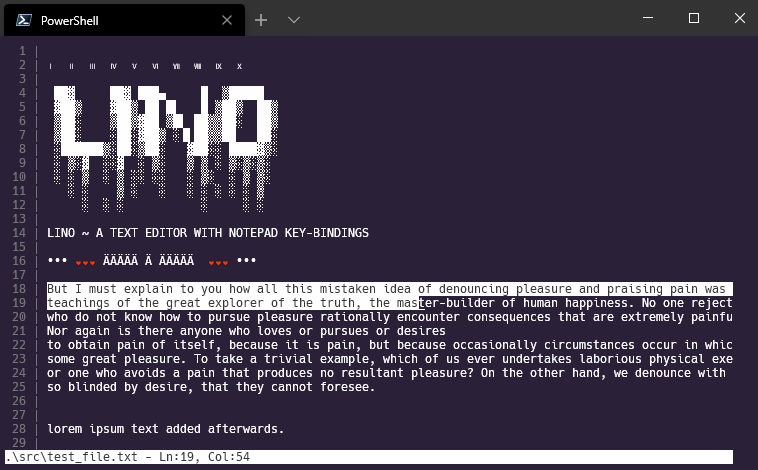
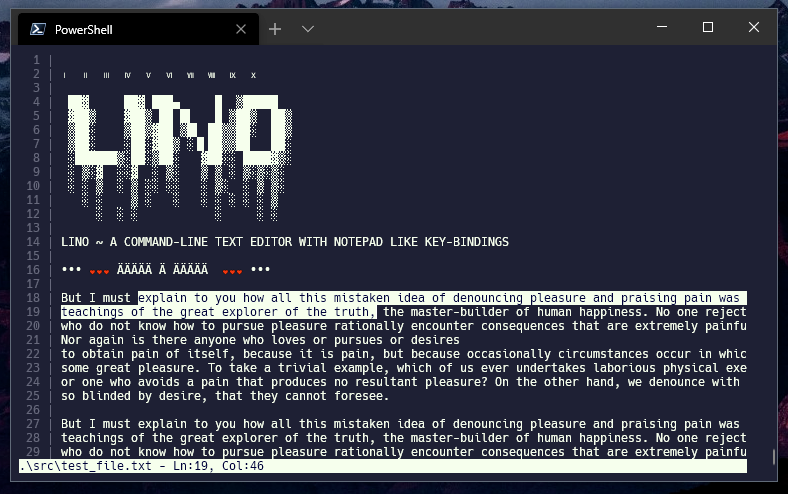
render code refactor, screenshot update

diff --git a/src/lino/render.rs b/src/lino/render.rs
@@ -50,20 +50,25 @@ impl Lino {
         
         for i in visible_frame_starting_line_num..visible_frame_ending_line_num {
             let rendered_lines_row = (i - visible_frame_starting_line_num) as usize;
-            let mut rendered_lines_col = 
+            let rendered_lines_col = 
                 (self.term_width - self.text_frame.width - self.line_nums_frame.width) as usize;
 
             let num_string = format!(" {:width$}", i + 1, width = line_num_width);
             let num_string = String::from(num_string) + &self.line_nums_frame.boundary_r;
 
-            for line_num_char in num_string.chars() {
-                crossterm::queue!(
-                    stdout(),
-                    crossterm::cursor::MoveTo(rendered_lines_col as u16, rendered_lines_row as u16),
-                    crossterm::style::Print(line_num_char),
-                )?;
-                rendered_lines_col += 1;
-            }
+            // for line_num_char in num_string.chars() {
+            //     crossterm::queue!(
+            //         stdout(),
+            //         crossterm::cursor::MoveTo(rendered_lines_col as u16, rendered_lines_row as u16),
+            //         crossterm::style::Print(line_num_char),
+            //     )?;
+            //     rendered_lines_col += 1;
+            // }
+            crossterm::queue!(
+                stdout(),
+                crossterm::cursor::MoveTo(rendered_lines_col as u16, rendered_lines_row as u16),
+                crossterm::style::Print(num_string),
+            )?;
         }
 
         let remaining_lines_start_row = (visible_frame_ending_line_num - visible_frame_starting_line_num) as usize;
@@ -72,13 +77,22 @@ impl Lino {
         let line_nums_frame_end_col = (line_nums_frame_start_col + self.line_nums_frame.width) as usize;
 
         for i in remaining_lines_start_row..self.line_nums_frame.height {
-            for j in line_nums_frame_start_col..line_nums_frame_end_col {
-                crossterm::queue!(
-                    stdout(),
-                    crossterm::cursor::MoveTo(j as u16, i as u16),
-                    crossterm::style::Print(' '),
-                )?;
+            // for j in line_nums_frame_start_col..line_nums_frame_end_col {
+            //     crossterm::queue!(
+            //         stdout(),
+            //         crossterm::cursor::MoveTo(j as u16, i as u16),
+            //         crossterm::style::Print(' '),
+            //     )?;
+            // }
+            let mut empty_string = String::new();
+            for _ in line_nums_frame_start_col..line_nums_frame_end_col {
+                empty_string.push(' ');
             }
+            crossterm::queue!(
+                stdout(),
+                crossterm::cursor::MoveTo(line_nums_frame_start_col as u16, i as u16),
+                crossterm::style::Print(empty_string),
+            )?;
         }
 
         Ok(())
@@ -117,7 +131,15 @@ impl Lino {
             let mut rendered_lines_col = (self.term_width - self.text_frame.width) as usize;
          
             let mut prev_background = crossterm::style::Color::Black;
-            let mut prev_foreground = crossterm::style::Color::DarkGrey;
+            let mut prev_foreground = crossterm::style::Color::White;
+            
+            crossterm::queue!(
+                stdout(),
+                crossterm::style::SetBackgroundColor(prev_background),
+                crossterm::style::SetForegroundColor(prev_foreground),
+            )?;
+
+            let mut same_styled_text = String::new();
 
             for j in visible_frame_starting_col..visible_frame_ending_col {
                 let mut background = self.lines[i][j].background;
@@ -131,6 +153,17 @@ impl Lino {
                         }
                     },
                     _ => ()
+                }
+
+                if (prev_background != background || prev_foreground != foreground)
+                && same_styled_text.len() > 0 {
+                    crossterm::queue!(
+                        stdout(),
+                        crossterm::cursor::MoveTo(rendered_lines_col as u16, rendered_lines_row as u16),
+                        crossterm::style::Print(same_styled_text.clone()),
+                    )?;
+                    rendered_lines_col += same_styled_text.chars().count();
+                    same_styled_text = String::new();
                 }
 
                 if prev_background != background {
@@ -149,12 +182,23 @@ impl Lino {
                     prev_foreground = foreground;
                 }
 
+                
+
+                // crossterm::queue!(
+                //     stdout(),
+                //     crossterm::cursor::MoveTo(rendered_lines_col as u16, rendered_lines_row as u16),
+                //     crossterm::style::Print(self.lines[i][j].character),
+                // )?;
+                same_styled_text.push(self.lines[i][j].character);
+                // rendered_lines_col += 1;
+            }
+
+            if same_styled_text.len() > 0 {
                 crossterm::queue!(
                     stdout(),
                     crossterm::cursor::MoveTo(rendered_lines_col as u16, rendered_lines_row as u16),
-                    crossterm::style::Print(self.lines[i][j].character),
+                    crossterm::style::Print(same_styled_text.clone()),
                 )?;
-                rendered_lines_col += 1;
             }
             
             let text_frame_start_col = (self.term_width - self.text_frame.width) as usize;
@@ -162,18 +206,22 @@ impl Lino {
                 + (visible_frame_ending_col - visible_frame_starting_col) as usize;
             let text_frame_end_col = (text_frame_start_col + self.text_frame.width) as usize;
 
+            // crossterm::queue!(
+            //     stdout(),
+            //     crossterm::style::SetBackgroundColor(crossterm::style::Color::Black),
+            //     crossterm::style::SetForegroundColor(crossterm::style::Color::DarkGrey),
+            // )?;
+            let mut empty_string = String::new();
+            for _ in remaining_chars_start_col..text_frame_end_col {
+                empty_string.push(' ');
+            }
             crossterm::queue!(
                 stdout(),
                 crossterm::style::SetBackgroundColor(crossterm::style::Color::Black),
-                crossterm::style::SetForegroundColor(crossterm::style::Color::DarkGrey),
+                crossterm::style::SetForegroundColor(crossterm::style::Color::White),
+                crossterm::cursor::MoveTo(remaining_chars_start_col as u16, rendered_lines_row as u16),
+                crossterm::style::Print(empty_string),
             )?;
-            for j in remaining_chars_start_col..text_frame_end_col {
-                crossterm::queue!(
-                    stdout(),
-                    crossterm::cursor::MoveTo(j as u16, rendered_lines_row as u16),
-                    crossterm::style::Print(' '),
-                )?;
-            }
         }
 
         let remaining_lines_start_row = (visible_frame_ending_row - visible_frame_starting_row) as usize;
@@ -187,32 +235,39 @@ impl Lino {
         )?;
 
         for i in remaining_lines_start_row..self.text_frame.height {
-            for j in text_frame_start_col..text_frame_end_col {
-                crossterm::queue!(
-                    stdout(),
-                    crossterm::cursor::MoveTo(j as u16, i as u16),
-                    crossterm::style::Print(' '),
-                )?;
+            // for j in text_frame_start_col..text_frame_end_col {
+            //     crossterm::queue!(
+            //         stdout(),
+            //         crossterm::cursor::MoveTo(j as u16, i as u16),
+            //         crossterm::style::Print(' '),
+            //     )?;
+            // }
+            let mut empty_string = String::new();
+            for _ in text_frame_start_col..text_frame_end_col {
+                empty_string.push(' ');
             }
+            crossterm::queue!(
+                stdout(),
+                crossterm::cursor::MoveTo(text_frame_start_col as u16, i as u16),
+                crossterm::style::Print(empty_string),
+            )?;
         }
 
         Ok(())
     }
 
     pub(crate) fn render_status_frame_content(&mut self) -> crossterm::Result<()> {
+        let mut empty_string = String::new();
+        for _ in 0..self.status_frame.width {
+            empty_string.push(' ');
+        }
         crossterm::queue!(
             stdout(),
             crossterm::style::SetBackgroundColor(crossterm::style::Color::White),
             crossterm::style::SetForegroundColor(crossterm::style::Color::Black),
+            crossterm::cursor::MoveTo(0, (self.term_height - 1) as u16),
+            crossterm::style::Print(empty_string),
         )?;
-        
-        for i in 0..self.status_frame.width {
-            crossterm::queue!(
-                stdout(),
-                crossterm::cursor::MoveTo(i as u16, (self.term_height - 1) as u16),
-                crossterm::style::Print(' '),
-            )?;
-        }
 
         let file_name = 
             if self.file.path != "" { String::from(&self.file.path) }
@@ -234,6 +289,8 @@ impl Lino {
     pub(crate) fn render_unsaved_changes_frame(&mut self) -> crossterm::Result<()> {
         crossterm::queue!(
             stdout(),
+            crossterm::style::SetBackgroundColor(crossterm::style::Color::Black),
+            crossterm::style::SetForegroundColor(crossterm::style::Color::White),
             crossterm::terminal::Clear(crossterm::terminal::ClearType::All),
             crossterm::style::SetBackgroundColor(crossterm::style::Color::White),
             crossterm::style::SetForegroundColor(crossterm::style::Color::Black),
@@ -260,6 +317,8 @@ impl Lino {
     pub(crate) fn render_save_as_frame(&mut self) -> crossterm::Result<()> {
         crossterm::queue!(
             stdout(),
+            crossterm::style::SetBackgroundColor(crossterm::style::Color::Black),
+            crossterm::style::SetForegroundColor(crossterm::style::Color::White),
             crossterm::terminal::Clear(crossterm::terminal::ClearType::All),
             crossterm::style::SetBackgroundColor(crossterm::style::Color::White),
             crossterm::style::SetForegroundColor(crossterm::style::Color::Black),
@@ -287,32 +346,32 @@ impl Lino {
         let col = (self.cursor.col - self.text_frame.start_col) + (self.line_nums_frame.width);
         let row = self.cursor.row - self.text_frame.start_row;
 
-        let mut background = crossterm::style::Color::Black;
-        let mut foreground = crossterm::style::Color::White;
-        let mut cursor_char = ' ';
+        // let mut background = crossterm::style::Color::Black;
+        // let mut foreground = crossterm::style::Color::White;
+        // let mut cursor_char = ' ';
 
-        if self.cursor.col < self.lines[self.cursor.row].len() {
-            background = self.lines[self.cursor.row][self.cursor.col].background;
-            foreground = self.lines[self.cursor.row][self.cursor.col].foreground;
-            cursor_char = self.lines[self.cursor.row][self.cursor.col].character;
-        }
+        // if self.cursor.col < self.lines[self.cursor.row].len() {
+        //     background = self.lines[self.cursor.row][self.cursor.col].background;
+        //     foreground = self.lines[self.cursor.row][self.cursor.col].foreground;
+        //     cursor_char = self.lines[self.cursor.row][self.cursor.col].character;
+        // }
 
-        if self.selection.is_selected {
-            if self.is_cursor_inside_selection(&self.get_sorted_selection_points().unwrap(), &self.cursor) {
-                background = crossterm::style::Color::White;
-                foreground = crossterm::style::Color::Black;
-            }
-        }
+        // if self.selection.is_selected {
+        //     if self.is_cursor_inside_selection(&self.get_sorted_selection_points().unwrap(), &self.cursor) {
+        //         background = crossterm::style::Color::White;
+        //         foreground = crossterm::style::Color::Black;
+        //     }
+        // }
 
         crossterm::queue!(
             stdout(),
             crossterm::cursor::MoveTo(col as u16, row as u16),
-            crossterm::style::SetBackgroundColor(background),
-            crossterm::style::SetForegroundColor(foreground),
-            crossterm::style::SetAttribute(crossterm::style::Attribute::Underlined),
-            crossterm::style::Print(cursor_char),
-            crossterm::style::SetAttribute(crossterm::style::Attribute::Reset),
-            crossterm::cursor::MoveTo(col as u16, row as u16),
+            // crossterm::style::SetBackgroundColor(background),
+            // crossterm::style::SetForegroundColor(foreground),
+            // crossterm::style::SetAttribute(crossterm::style::Attribute::Underlined),
+            // crossterm::style::Print(cursor_char),
+            // crossterm::style::SetAttribute(crossterm::style::Attribute::Reset),
+            // crossterm::cursor::MoveTo(col as u16, row as u16),
             crossterm::cursor::Show,
         )?;
 

diff --git a/src/lino/init.rs b/src/lino/init.rs
@@ -84,7 +84,8 @@ impl Lino {
         for character in input_string.chars() {
             lino.input_character(character);
         }
-
+        
+        lino.reset_cursor();
         lino.saved_lines = lino.lines.clone();
         lino.update_terminal_size();
         lino.update_status_frame();
@@ -99,13 +100,13 @@ impl Lino {
     pub fn run(&mut self) -> crossterm::Result<()> {
         ctrlc::set_handler(|| ()).expect("Error setting Ctrl-C handler");
 
-        crossterm::execute!(stdout(), crossterm::terminal::EnterAlternateScreen)?;
         crossterm::terminal::enable_raw_mode()?;
+        crossterm::execute!(stdout(), crossterm::terminal::EnterAlternateScreen)?;
         
         self.initiate_input_event_loop()?;
         
-        crossterm::terminal::disable_raw_mode()?;
-        crossterm::execute!(stdout(), crossterm::terminal::LeaveAlternateScreen)?;
+        // crossterm::terminal::disable_raw_mode()?;
+        // crossterm::execute!(stdout(), crossterm::terminal::LeaveAlternateScreen)?;
         
         Ok(())
     }
@@ -113,11 +114,7 @@ impl Lino {
 
 impl Drop for Lino {
     fn drop(&mut self) {
-        // crossterm::execute!(
-        //     stdout(),
-        //     crossterm::terminal::LeaveAlternateScreen
-        // ).unwrap();
+        crossterm::execute!(stdout(), crossterm::terminal::LeaveAlternateScreen).unwrap();
         crossterm::terminal::disable_raw_mode().unwrap();
-        println!("drop called for Lino");
     }
 }

diff --git a/src/lino/transform.rs b/src/lino/transform.rs
@@ -41,6 +41,7 @@ impl Lino {
         for character in input_string.chars() {
             self.input_character(character);
         }
+        self.reset_cursor();
         self.saved_lines = self.lines.clone();
         self.file.should_save_as = false;
     }
@@ -265,6 +266,11 @@ impl Lino {
         }
 
         self.restore_last_cursor_col_if_applicable();
+    }
+
+    pub(crate) fn reset_cursor(&mut self) {
+        self.cursor.row = 0;
+        self.cursor.col = 0;
     }
 
     pub(crate) fn move_cursor_left(&mut self) {

diff --git a/src/lino/handle.rs b/src/lino/handle.rs
@@ -23,9 +23,8 @@ impl Lino {
                     // self.render()?;
                 },
                 crossterm::event::Event::Mouse(_event) => (),
-                crossterm::event::Event::Resize(width, height) => {
-                    self.term_width = width as usize;
-                    self.term_height = height as usize;
+                crossterm::event::Event::Resize(_, _) => {
+                    self.update_terminal_size();
                     // self.render()?;
                 },
             }
